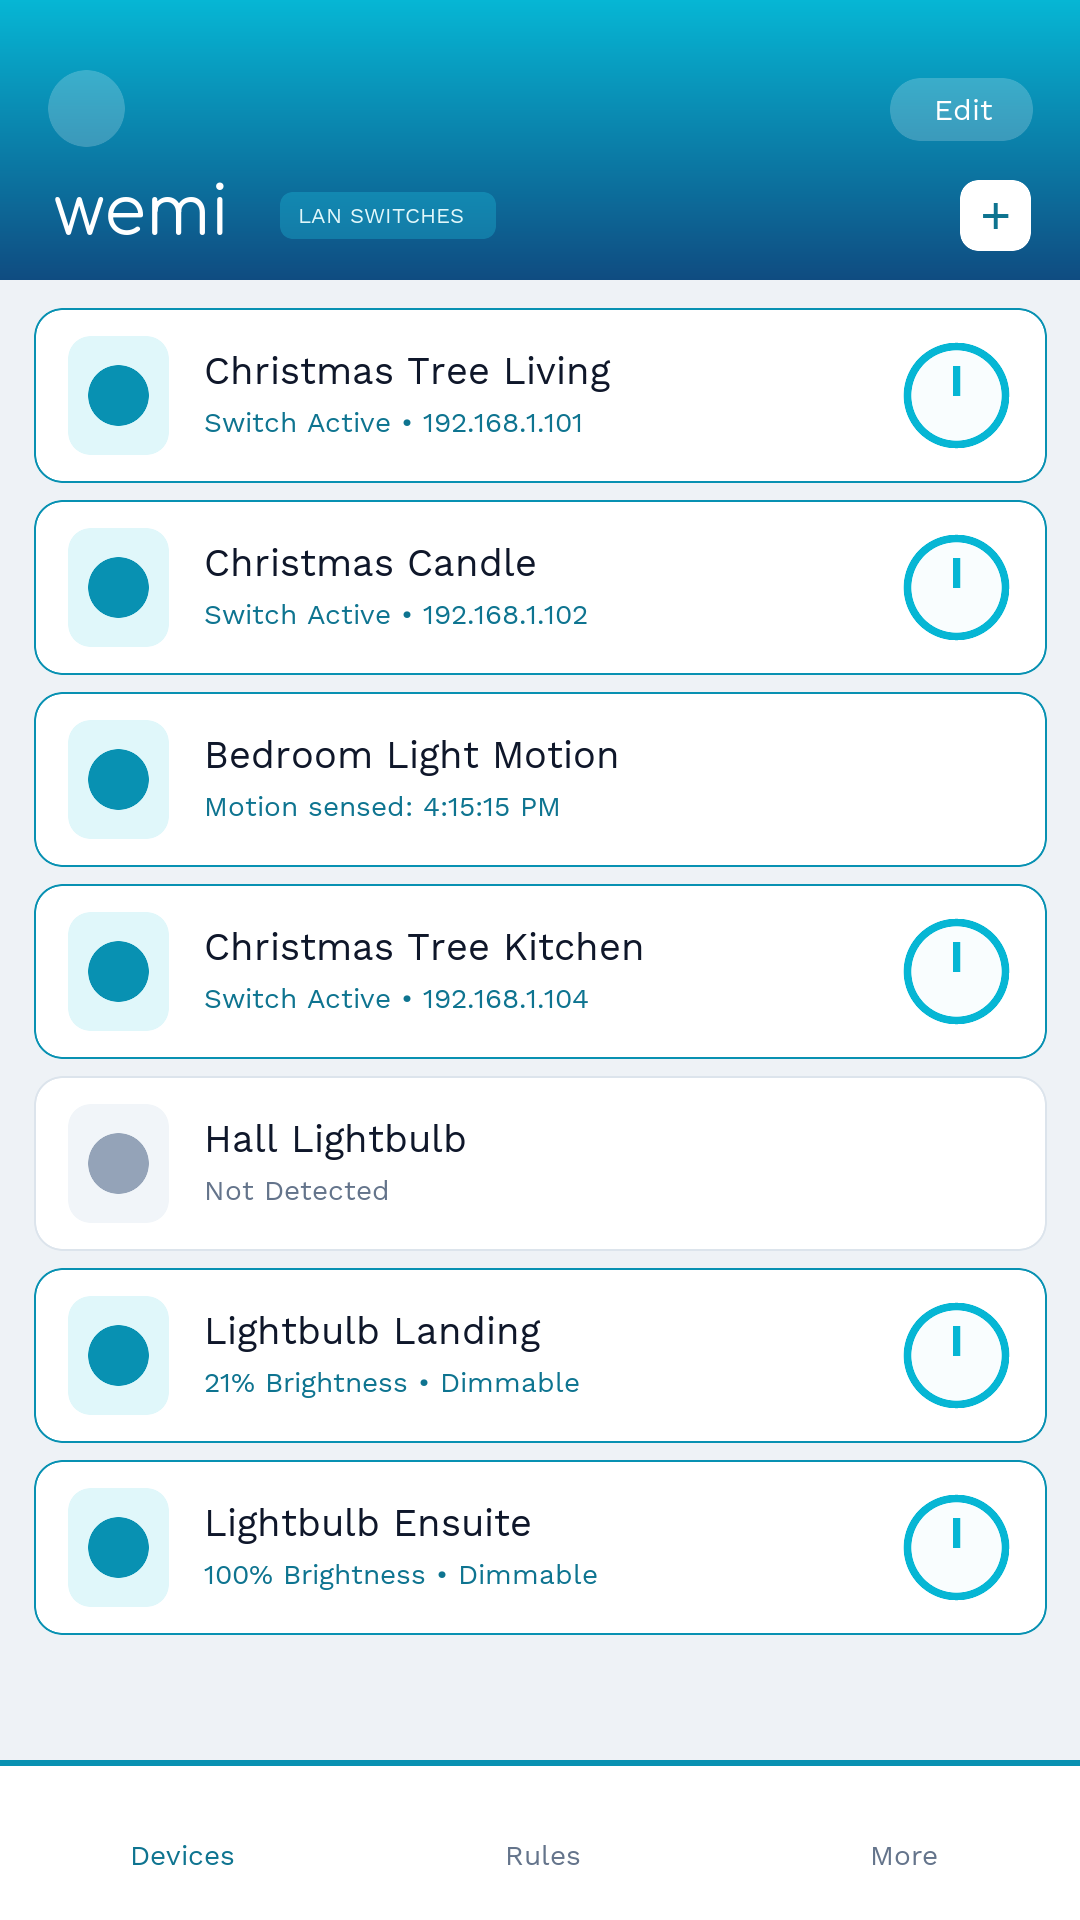
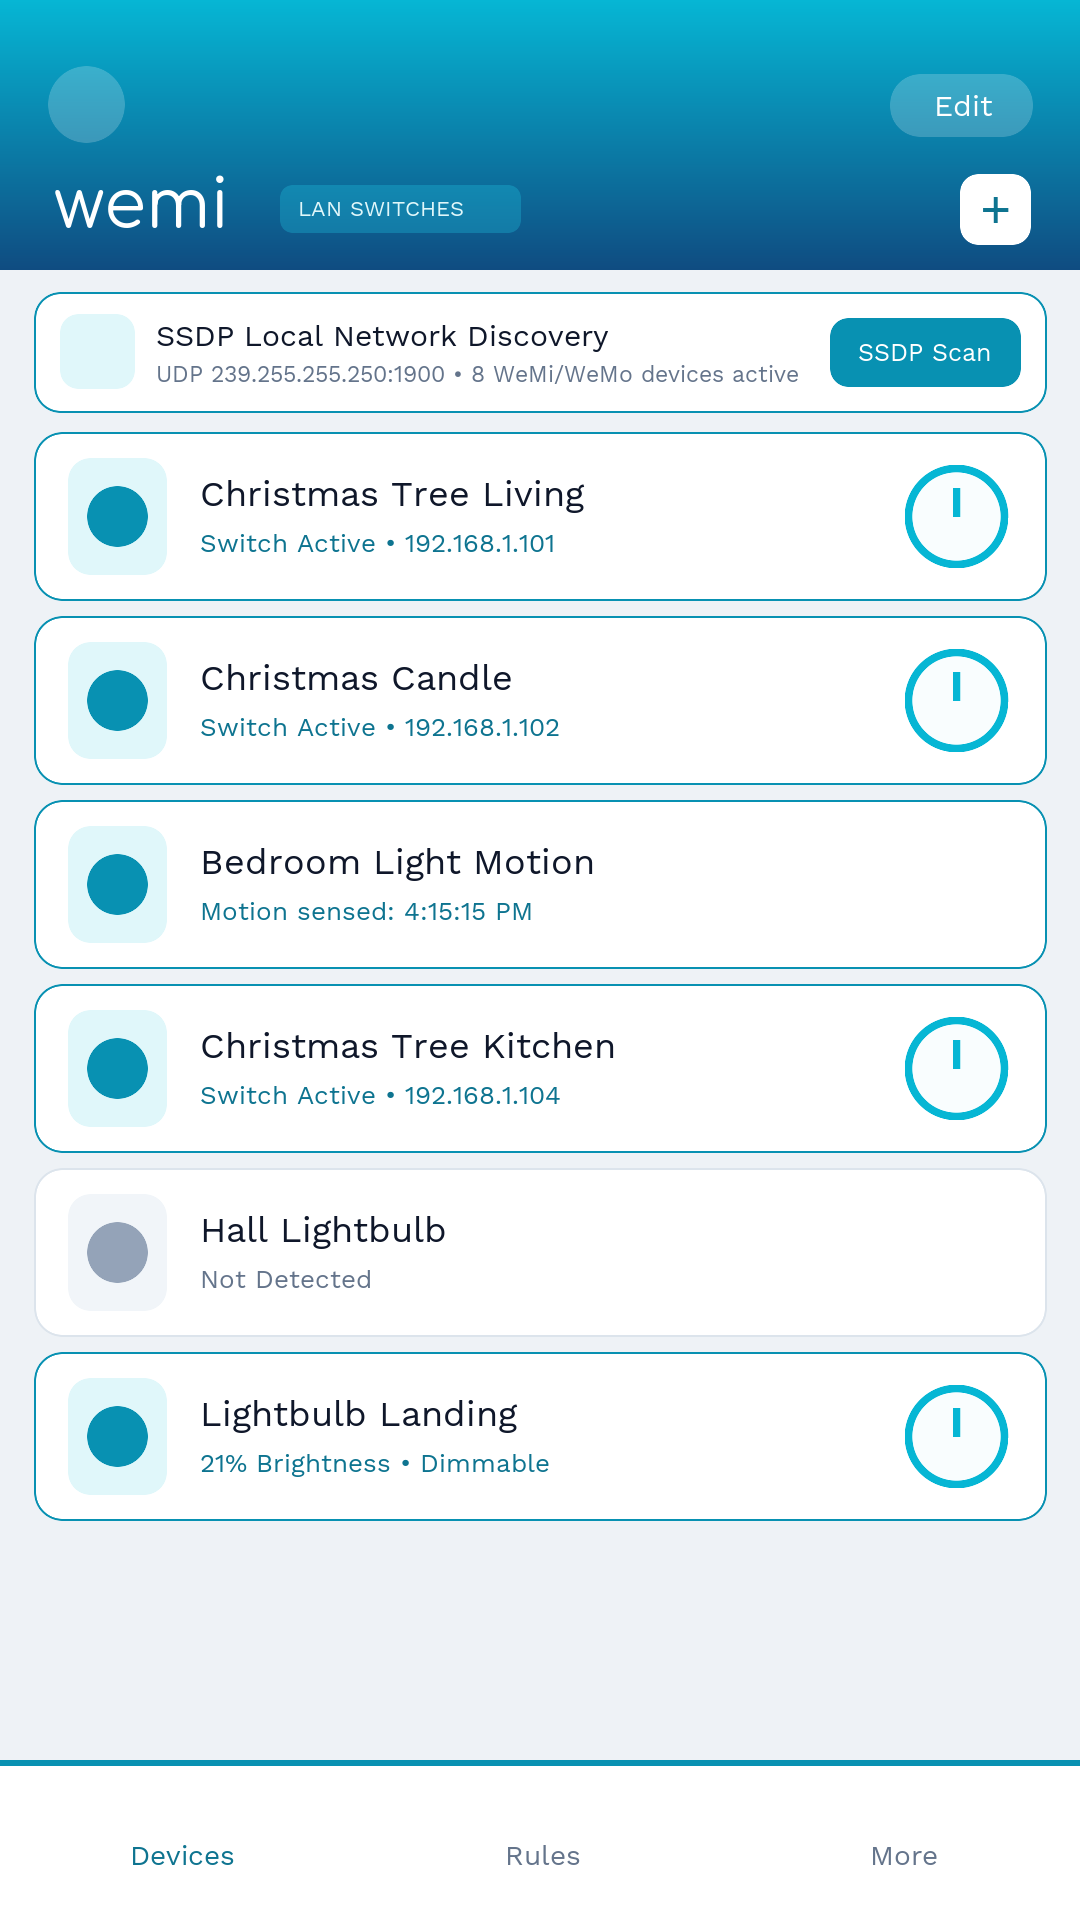
docs: update store listing and assets
Refine the store description to accurately reflect local SSDP discovery mechanisms and update high-resolution marketing assets.

diff --git a/play_store_assets/STORE_LISTING.md b/play_store_assets/STORE_LISTING.md
@@ -18,20 +18,23 @@ WeMi Switch Control communicates directly with your switches over your home Wi-F
 ### Key Features
 - **Instant One-Tap Cyan Power Ring Toggles:** Turn light switches, holiday lights, and smart outlets ON or OFF directly over your local Wi-Fi network.
 - **Inline Brightness & Dimmer Drawer:** Smoothly dim smart bulbs and dimmer switches from 1% to 100%, or jump to quick brightness presets (21%, 50%, 75%, 100%).
-- **Automatic Local Wi-Fi Discovery (SSDP):** Scan `239.255.255.250:1900` to automatically locate compatible UPnP switches on ports `49152–49155`, or add switches directly by IP address.
+- **Interactive SSDP Local Wi-Fi Scanner:** Broadcast `M-SEARCH` packets over `239.255.255.250:1900` across `urn:Belkin:service:basicevent:1`, `urn:Belkin:device:**`, and `upnp:rootdevice` to automatically discover switches and inspect their `/setup.xml` descriptors.
 - **Motion Sensor Status & Triggers:** View the latest motion detection timestamps and link motion events to turn on bedroom or hallway lights automatically.
 - **Local Rules & Schedules:** Create daily schedules, sunset timers, motion triggers, and auto-off countdowns that execute locally.
 - **Built-In UPnP / SOAP Packet Inspector:** Diagnose network connectivity and inspect real-time `GetBinaryState` and `SetBinaryState` XML payloads from the More tab.
 
-## Rebuilt Graphic Assets Included in `/play_store_assets/`
-1. **High-Res App Icon (`play_store_icon_512x512.png`):** 512 × 512 px, 32-bit PNG (Ocean Teal `#0E7490` & Glowing Cyan `#22D3EE`).
-2. **Feature Graphic (`feature_graphic_1024x500.png`):** 1024 × 500 px, 32-bit PNG (Ocean Teal & Electric Cyan Smart Home Banner).
-3. **Promotional Phone Screenshots (`screenshots/`):**
-   - `screenshots/screenshot_1_devices_teal.png` (1080 × 1920 px PNG — Devices & Power Rings)
-   - `screenshots/screenshot_2_dimmer_control.png` (1080 × 1920 px PNG — Inline Cyan Dimmer & Presets)
-   - `screenshots/screenshot_3_rules_and_upnp.png` (1080 × 1920 px PNG — Local LAN Rules & SOAP Inspector)
-
-## Google Play Data Safety Summary
-- **Data Collection:** No personal or device data is collected or transmitted off-device.
-- **Data Sharing:** No data is shared with third parties.
-- **Network Usage:** Local LAN HTTP/UDP traffic (`INTERNET`, `ACCESS_WIFI_STATE`, `CHANGE_WIFI_MULTICAST_STATE`) is used strictly to discover and toggle smart switches on the user's local subnet.
+## Complete Google Play Console Asset Inventory (`/play_store_assets/`)
+1. **High-Res App Icon (`play_store_icon_512x512.png`):** 512 × 512 px, PNG.
+2. **Feature Graphic (`feature_graphic_1024x500.png`):** 1024 × 500 px, PNG.
+3. **Phone Screenshots (`screenshots/phone/` — 1080 × 1920 px, 9:16 PNG):**
+   - `phone_1_devices_and_power_rings.png` (Devices & Power Rings)
+   - `phone_2_ssdp_network_scanner.png` (SSDP Network Discovery Scanner & Discovered List)
+   - `phone_3_inline_dimmer_control.png` (Inline Cyan Dimmer & Presets)
+   - `phone_4_local_rules_and_upnp_log.png` (Local LAN Rules & SOAP Packet Log)
+4. **7-Inch Tablet Screenshots (`screenshots/tablet_7_inch/` — 1200 × 1920 px PNG):**
+   - `tablet7_1_devices_dashboard.png`
+   - `tablet7_2_ssdp_and_rules.png`
+5. **10-Inch Tablet Screenshots (`screenshots/tablet_10_inch/` — 1600 × 2560 px PNG):**
+   - `tablet10_1_devices_dashboard.png`
+   - `tablet10_2_ssdp_and_rules.png`
+6. **Release Notes (`RELEASE_NOTES.txt`), Privacy Policy (`PRIVACY_POLICY.md`), and Upload & Data Safety Guide (`DATA_SAFETY_GUIDE.md`).**

diff --git a/play_store_assets/DATA_SAFETY_GUIDE.md b/play_store_assets/DATA_SAFETY_GUIDE.md
@@ -1,0 +1,34 @@
+# Google Play Console Upload & Data Safety Checklist
+
+## 1. Graphic Assets Ready to Upload (`/play_store_assets/`)
+
+| Asset Type | Google Play Spec | File Path in Repository | Verified Resolution |
+| :--- | :--- | :--- | :--- |
+| **App Icon** | 512 × 512 px, 32-bit PNG | `play_store_assets/play_store_icon_512x512.png` | `512 × 512` |
+| **Feature Graphic** | 1024 × 500 px, PNG | `play_store_assets/feature_graphic_1024x500.png` | `1024 × 500` |
+| **Phone Screenshot 1** | 1080 × 1920 px (9:16 PNG) | `play_store_assets/screenshots/phone/phone_1_devices_and_power_rings.png` | `1080 × 1920` |
+| **Phone Screenshot 2** | 1080 × 1920 px (9:16 PNG) | `play_store_assets/screenshots/phone/phone_2_ssdp_network_scanner.png` | `1080 × 1920` |
+| **Phone Screenshot 3** | 1080 × 1920 px (9:16 PNG) | `play_store_assets/screenshots/phone/phone_3_inline_dimmer_control.png` | `1080 × 1920` |
+| **Phone Screenshot 4** | 1080 × 1920 px (9:16 PNG) | `play_store_assets/screenshots/phone/phone_4_local_rules_and_upnp_log.png` | `1080 × 1920` |
+| **7" Tablet Screenshot 1** | 1200 × 1920 px (PNG) | `play_store_assets/screenshots/tablet_7_inch/tablet7_1_devices_dashboard.png` | `1200 × 1920` |
+| **7" Tablet Screenshot 2** | 1200 × 1920 px (PNG) | `play_store_assets/screenshots/tablet_7_inch/tablet7_2_ssdp_and_rules.png` | `1200 × 1920` |
+| **10" Tablet Screenshot 1** | 1600 × 2560 px (PNG) | `play_store_assets/screenshots/tablet_10_inch/tablet10_1_devices_dashboard.png` | `1600 × 2560` |
+| **10" Tablet Screenshot 2** | 1600 × 2560 px (PNG) | `play_store_assets/screenshots/tablet_10_inch/tablet10_2_ssdp_and_rules.png` | `1600 × 2560` |
+
+---
+
+## 2. Google Play Console Questionnaire Answers
+
+### A. Data Safety Section
+- **Does your app collect or share any of the required user data types?** → **No**
+- **Explanation:** All switch IPs, friendly names, SSDP discovery results, and rules are stored strictly on-device in local Room SQLite storage and communicated only over the user's local LAN (`239.255.255.250:1900` and `http://<local-ip>:49153`).
+
+### B. App Content & Permissions
+- **Ads:** No, my app does not contain ads.
+- **App Access:** All functionality is available without special access or login credentials (pre-populated with demo/default devices and includes a live local SSDP scanner).
+- **Target Audience:** 13+ / Everyone (General utility app).
+- **Permissions Used (Install-time normal permissions only):**
+  - `android.permission.INTERNET` (Local HTTP SOAP calls to switches)
+  - `android.permission.ACCESS_NETWORK_STATE`
+  - `android.permission.ACCESS_WIFI_STATE`
+  - `android.permission.CHANGE_WIFI_MULTICAST_STATE` (Acquires `WifiManager.MulticastLock` during SSDP `M-SEARCH` discovery)
